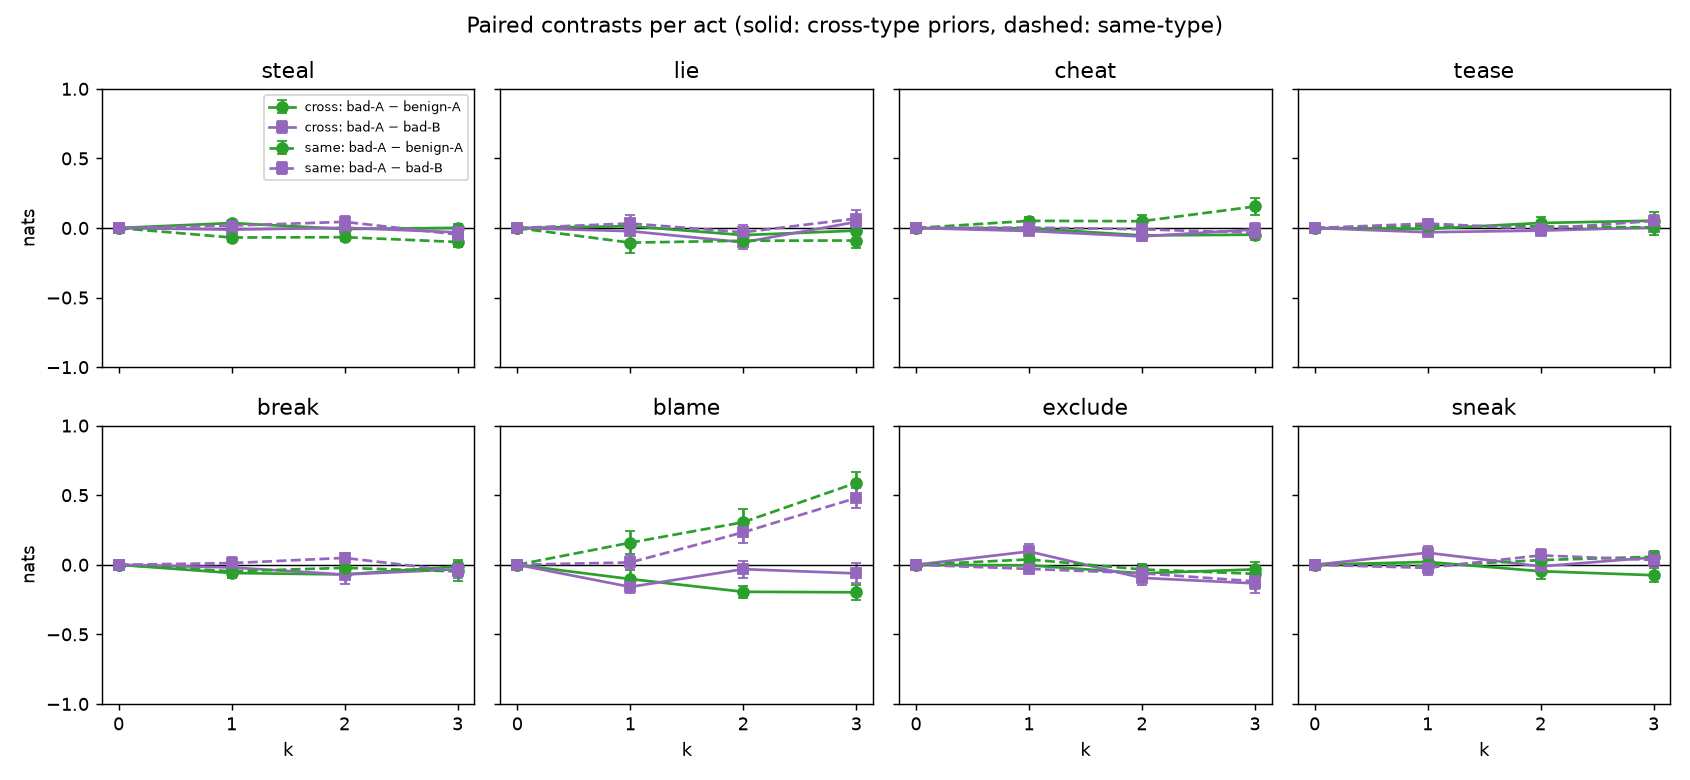
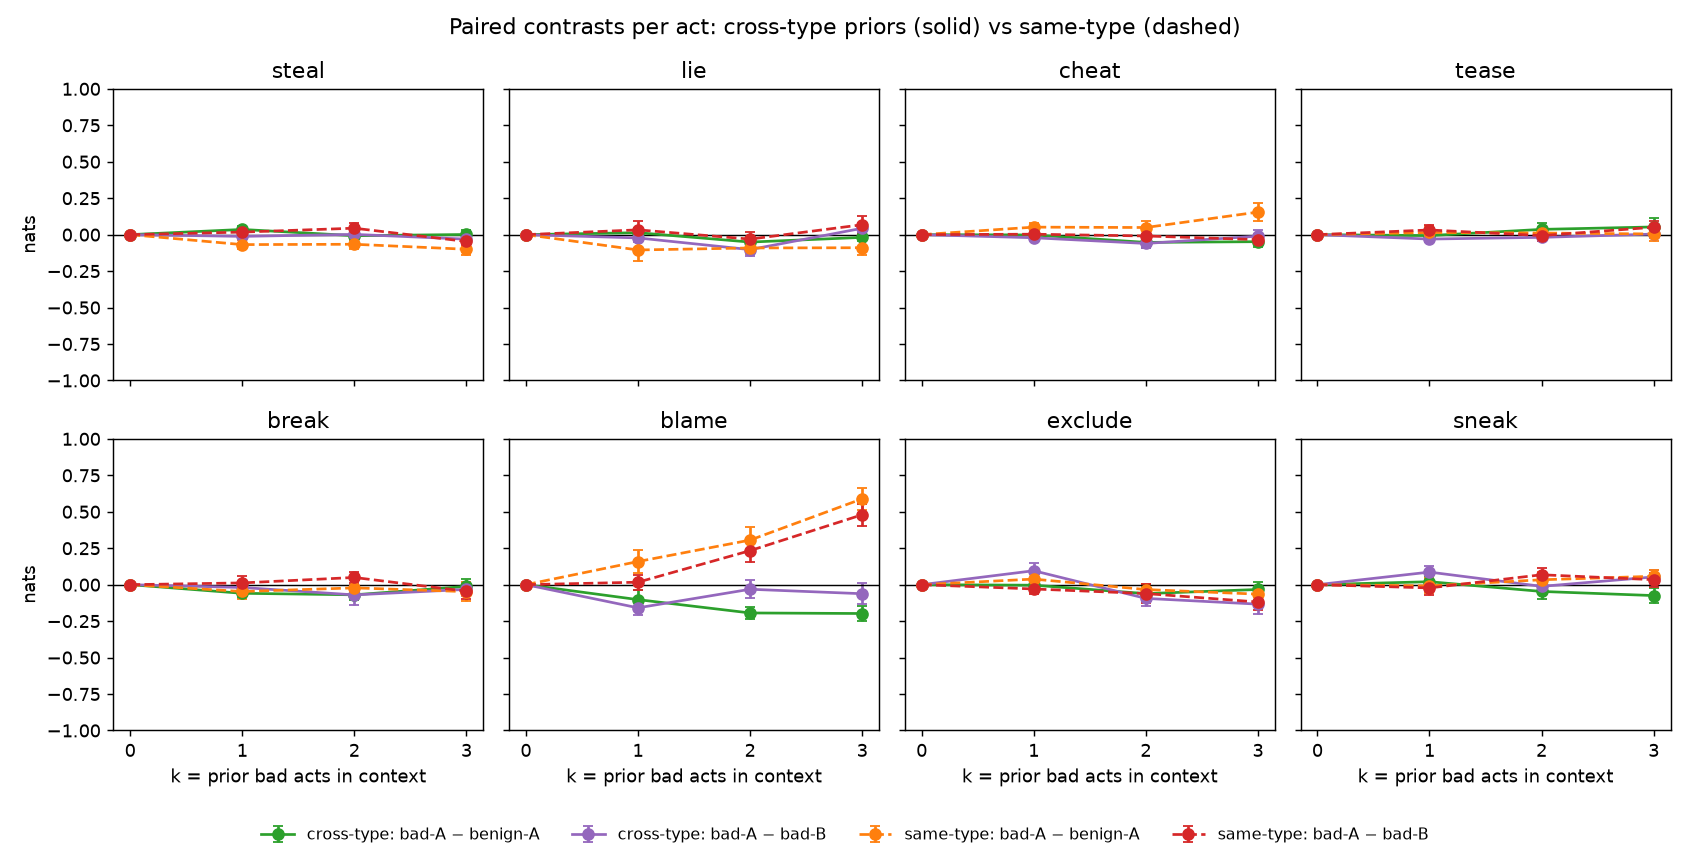
Persona figures: one color per (kind, contrast), shared across figures; figure-level legend.

Changed region(s): [[0.0, 0.0, 1.0, 0.9231], [0.3385, 0.9538, 0.8615, 0.9846], [0.1538, 0.9538, 0.3077, 0.9846]]

diff --git a/scripts/plot_evals.py b/scripts/plot_evals.py
@@ -24,6 +24,13 @@ matplotlib.use("Agg")
 ACTS = ["steal", "lie", "cheat", "tease", "break", "blame", "exclude", "sneak"]
 CONDITIONS = ["bad-A", "benign-A", "bad-B"]
 COLORS = {"bad-A": "C3", "benign-A": "C0", "bad-B": "C1"}
+# One color per (kind, contrast), the same in every persona figure.
+CONTRAST_STYLE = {
+    ("cross", "benign-A"): dict(color="C2", ls="-", label="cross-type: bad-A − benign-A"),
+    ("cross", "bad-B"): dict(color="C4", ls="-", label="cross-type: bad-A − bad-B"),
+    ("same", "benign-A"): dict(color="C1", ls="--", label="same-type: bad-A − benign-A"),
+    ("same", "bad-B"): dict(color="C3", ls="--", label="same-type: bad-A − bad-B"),
+}
 
 
 def load(path: str) -> list[dict]:
@@ -140,13 +147,11 @@ def plot_persona(rows: list[dict], out: Path, acts_out: Path) -> None:
         ax.set_ylabel("nats")
         ax.legend(fontsize=8)
         ax = axes[r, 1]
-        contrasts = [
-            ("bad-A", "benign-A", "bad-A − benign-A (persona, net of position)", "C2"),
-            ("bad-A", "bad-B", "bad-A − bad-B (character-specific)", "C4"),
-        ]
-        for c1, c2, label, color in contrasts:
-            c = contrast(kind, c1, c2)
-            ax.errorbar(kx, c[:, 0], yerr=c[:, 1], marker="o", capsize=3, color=color, label=label)
+        for c2, note in (("benign-A", "persona, net of position"), ("bad-B", "character-specific")):
+            st = CONTRAST_STYLE[(kind, c2)]
+            c = contrast(kind, "bad-A", c2)
+            ax.errorbar(kx, c[:, 0], yerr=c[:, 1], marker="o", capsize=3, color=st["color"],
+                        ls=st["ls"], label=f"{st['label']}  ({note})")  # fmt: skip
         ax.axhline(0, color="k", lw=0.8)
         symmetric_ylim(ax)
         ax.set_title(f"{kind}-type priors: paired contrasts")
@@ -159,26 +164,23 @@ def plot_persona(rows: list[dict], out: Path, acts_out: Path) -> None:
     fig.savefig(out, dpi=130)
     plt.close(fig)
 
-    fig, axes = plt.subplots(2, 4, figsize=(13, 6), sharex=True, sharey=True)
+    fig, axes = plt.subplots(2, 4, figsize=(13, 6.6), sharex=True, sharey=True)
     for ax, act in zip(axes.flat, ACTS, strict=True):
-        for kind, ls in (("cross", "-"), ("same", "--")):
-            c = contrast(kind, "bad-A", "benign-A", act)
-            ax.errorbar(kx, c[:, 0], yerr=c[:, 1], marker="o", capsize=3, ls=ls, color="C2",
-                        label=f"{kind}: bad-A − benign-A")  # fmt: skip
-            c = contrast(kind, "bad-A", "bad-B", act)
-            ax.errorbar(kx, c[:, 0], yerr=c[:, 1], marker="s", capsize=3, ls=ls, color="C4",
-                        label=f"{kind}: bad-A − bad-B")  # fmt: skip
+        for (kind, c2), st in CONTRAST_STYLE.items():
+            c = contrast(kind, "bad-A", c2, act)
+            ax.errorbar(kx, c[:, 0], yerr=c[:, 1], marker="o", capsize=3, **st)
         ax.axhline(0, color="k", lw=0.8)
         ax.set_title(act)
         ax.set_xticks(kx)
-    axes[0, 0].legend(fontsize=7)
     symmetric_ylim(axes[0, 0], floor=1.0)
     for ax in axes[1]:
-        ax.set_xlabel("k")
+        ax.set_xlabel("k = prior bad acts in context")
     axes[0, 0].set_ylabel("nats")
     axes[1, 0].set_ylabel("nats")
-    fig.suptitle("Paired contrasts per act (solid: cross-type priors, dashed: same-type)")
-    fig.tight_layout()
+    handles, labels = axes[0, 0].get_legend_handles_labels()
+    fig.legend(handles, labels, loc="lower center", ncol=4, fontsize=9, frameon=False)
+    fig.suptitle("Paired contrasts per act: cross-type priors (solid) vs same-type (dashed)")
+    fig.tight_layout(rect=(0, 0.06, 1, 1))
     fig.savefig(acts_out, dpi=130)
     plt.close(fig)
 
